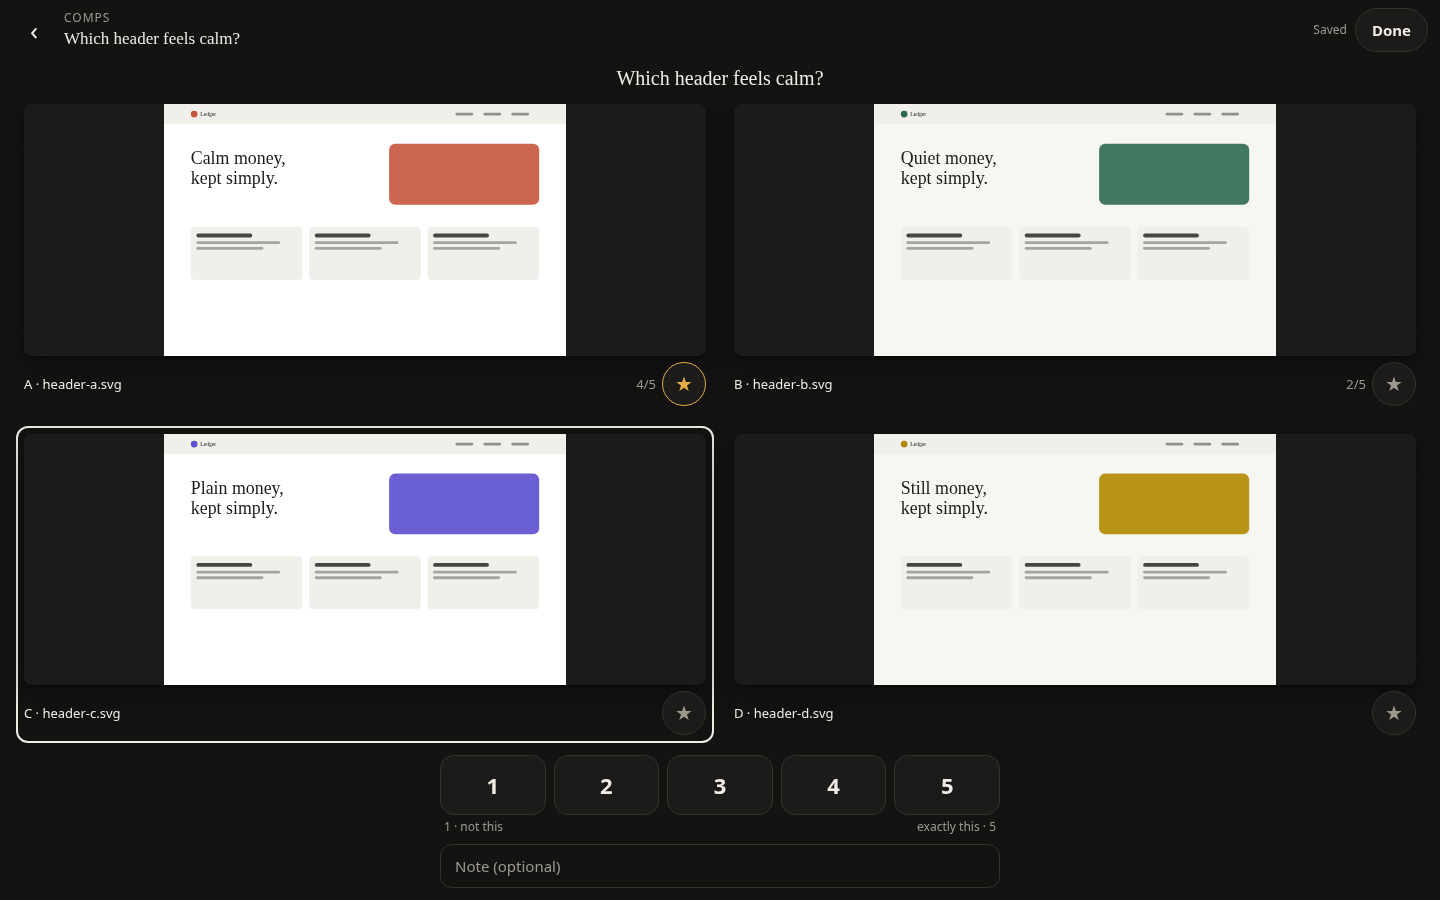
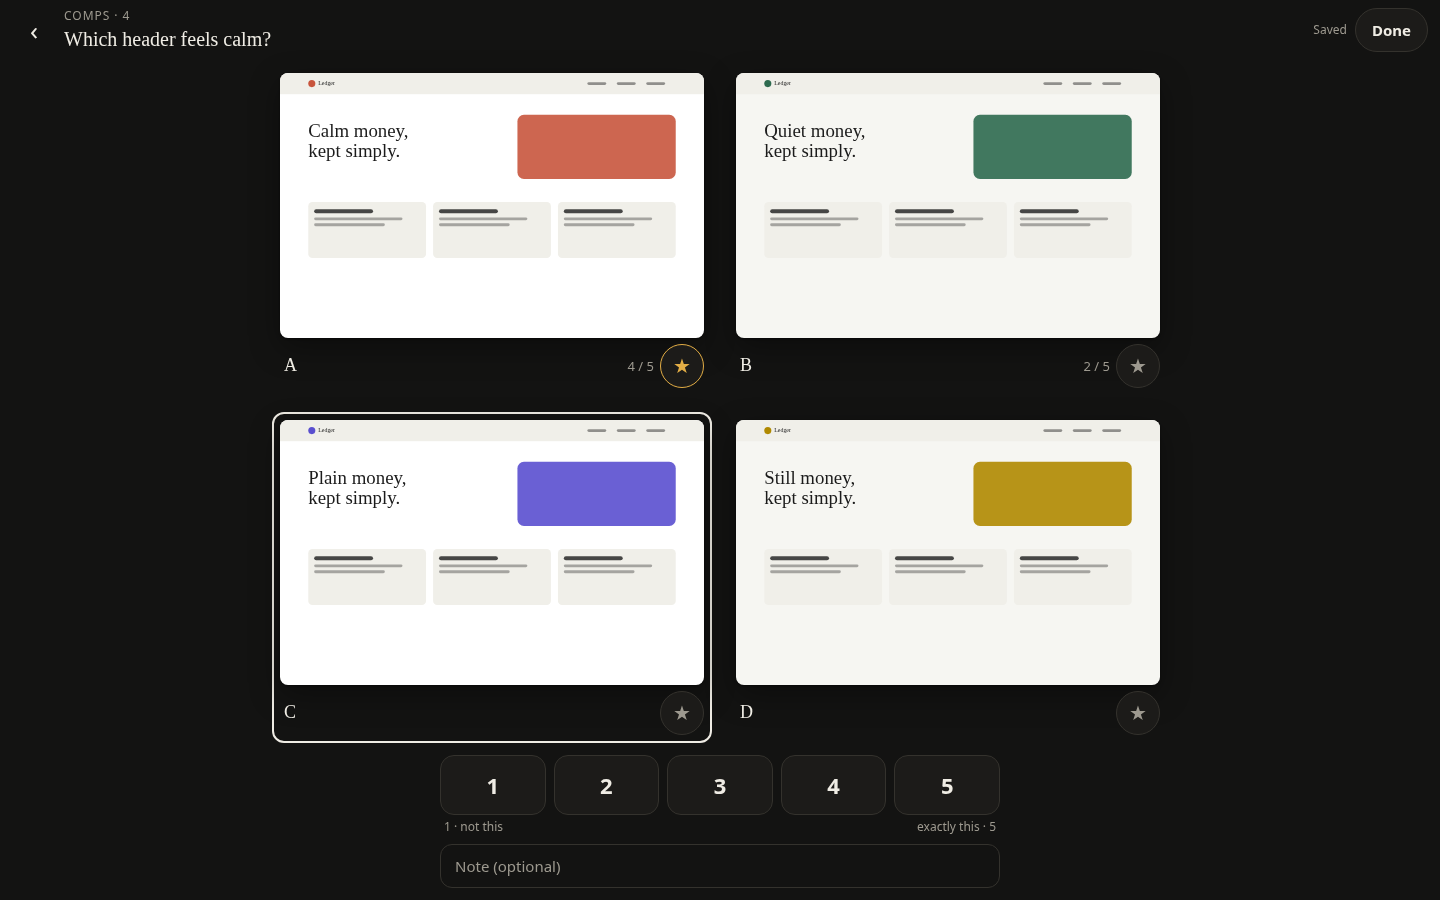
rig taste comps: the question once, frames the shape of their images, letters for labels
The lead's polish from the fc8cf3a shots. The question lives in the header only; each frame is
sized to its image's aspect in whichever column count makes the comps largest; cards read A-D
(file names stay in TASTE.md). A new check with its own control covers the single question and
the frame shape; shots re-taken.

diff --git a/src/taste/page.js b/src/taste/page.js
@@ -56,14 +56,14 @@ footer{padding:4px 16px max(12px,env(safe-area-inset-bottom));display:flex;flex-
 .thumb img{display:block;object-fit:cover;object-position:top;border-radius:6px}
 .thumb span{font-size:12px;color:var(--muted);font-variant-numeric:tabular-nums}
 #finish{height:56px;padding:0 32px;border-radius:28px;border:0;background:var(--ink);color:var(--bg);font-size:17px;font-weight:600}
-.question{font-family:ui-serif,Georgia,serif;font-size:20px;text-align:center;margin:0 0 4px;padding:0 8px}
-.grid{position:absolute;inset:0;display:grid;gap:12px}
+.asking #name{font-size:20px}
+.grid{position:absolute;inset:0;display:grid;gap:16px;justify-content:center;align-content:center}
 .comp{position:relative;min-width:0;min-height:0;display:flex;flex-direction:column;gap:6px;border-radius:12px;padding:6px;border:2px solid transparent;background:transparent}
 .comp.sel{border-color:var(--ink)}
-.comp .pick{flex:1;min-height:0;border:0;padding:0;background:var(--paper);border-radius:8px;box-shadow:var(--shadow);overflow:hidden;display:block;width:100%}
+.comp .pick{flex:none;border:0;padding:0;background:var(--paper);border-radius:8px;box-shadow:var(--shadow);overflow:hidden;display:block;width:100%}
 .comp .pick img{display:block;width:100%;height:100%;object-fit:contain}
 .comp .bar{display:flex;align-items:center;gap:6px;height:44px}
-.comp .label{flex:1;min-width:0;font-size:13px;white-space:nowrap;overflow:hidden;text-overflow:ellipsis}
+.comp .label{flex:1;min-width:0;font-family:ui-serif,Georgia,serif;font-size:18px;padding-left:4px}
 .comp .score{font-size:13px;color:var(--muted);font-variant-numeric:tabular-nums}
 .star{width:44px;height:44px;border-radius:22px;border:1px solid var(--line);background:var(--paper);font-size:20px;line-height:1;color:var(--muted);flex:none}
 .star[aria-pressed=true]{color:var(--star);border-color:var(--star)}
@@ -79,8 +79,8 @@ footer{padding:4px 16px max(12px,env(safe-area-inset-bottom));display:flex;flex-
   main{padding:4px 12px}
   #stage{inset:4px 12px;--gap:12px}
   footer{padding-left:12px;padding-right:12px;gap:6px}
-  .question{font-size:17px}
-  .grid{gap:6px}
+  .asking #name{font-size:17px}
+  .grid{gap:8px}
   .comp{padding:3px}
 }
 /* Hover only where a pointer really hovers: on a phone a sticky :hover reads as a rating already given. */
@@ -190,15 +190,6 @@ function fit(figs){
     var s = f.querySelector('.shot'); s.style.width = Math.floor(w) + 'px'; s.style.height = Math.floor(h) + 'px'
   })
 }
-// A grid for n tiles of aspect ~a inside W x H, picking the column count that makes tiles biggest.
-function bestCols(n, W, H, a, extraH, gap){
-  var best = 1, bestS = 0
-  for (var c = 1; c <= n; c++){
-    var r = Math.ceil(n / c), cw = (W - gap * (c - 1)) / c, ch = (H - gap * (r - 1)) / r - extraH
-    var w = Math.min(cw, ch * a); if (w > bestS){ bestS = w; best = c }
-  }
-  return best
-}
 
 // The token rides on every image URL; v changes when the file does, so a reworked comp is never stale.
 function imgUrl(card, view){ return '/img/' + encodeURIComponent(card.id) + '/' + view + '?t=' + encodeURIComponent(S.token) + '&v=' + (card.v[view] || '') }
@@ -229,36 +220,49 @@ function renderRef(i){
   preload(refs[i + 1])
 }
 
+// The comps view: the question once, in the header, and the comps as large as the stage allows.
+// Each frame takes its image's own shape, and the column count is whichever makes them biggest.
 function renderComps(){
-  $('progress').textContent = 'Comps'
+  $('progress').textContent = 'Comps · ' + comps.length
   $('name').textContent = S.question || 'Which one?'; $('name').title = S.question || ''
+  document.body.classList.add('asking')
   stage.innerHTML = ''; stage.style.display = 'block'; stage.style.flexDirection = ''
-  var q = el('p', 'question', S.question || 'Which one?'); q.id = 'question'
-  var wrap = el('div'); wrap.style.cssText = 'position:absolute;left:0;right:0;bottom:0'
   var grid = el('div', 'grid'); grid.id = 'grid'
-  wrap.appendChild(grid); stage.appendChild(q); stage.appendChild(wrap)
+  stage.appendChild(grid)
+  var imgs = []
   comps.forEach(function(c, k){
-    var a = answerOf('comp', c.id)
+    var a = answerOf('comp', c.id), letter = String.fromCharCode(65 + k)
     var card = el('div', 'comp' + (k === sel ? ' sel' : '')); card.dataset.id = c.id
-    var pick = el('button', 'pick'); pick.type = 'button'; pick.setAttribute('aria-label', 'Select ' + c.name)
-    var img = new Image(); img.alt = c.name; img.src = imgUrl(c, c.views[0]); pick.appendChild(img)
+    var pick = el('button', 'pick'); pick.type = 'button'; pick.setAttribute('aria-label', 'Select comp ' + letter)
+    var img = new Image(); img.alt = 'Comp ' + letter; img.src = imgUrl(c, c.views[0]); pick.appendChild(img)
+    img.addEventListener('load', function(){ relayout() })
+    imgs.push(img)
     pick.addEventListener('click', function(){ select(k) })
     var bar = el('div', 'bar')
-    bar.appendChild(el('span', 'label', String.fromCharCode(65 + k) + '  ·  ' + c.name))
-    bar.appendChild(el('span', 'score', a.rating ? a.rating + '/5' : ''))
-    var star = el('button', 'star', '★'); star.type = 'button'; star.setAttribute('aria-label', 'Favourite: ' + c.name)
+    bar.appendChild(el('span', 'label', letter))
+    bar.appendChild(el('span', 'score', a.rating ? a.rating + ' / 5' : ''))
+    var star = el('button', 'star', '★'); star.type = 'button'; star.setAttribute('aria-label', 'Favourite: comp ' + letter)
     star.setAttribute('aria-pressed', S.pick === c.id ? 'true' : 'false')
     star.addEventListener('click', function(){ togglePick(k) })
     bar.appendChild(star)
     card.appendChild(pick); card.appendChild(bar); grid.appendChild(card)
   })
   relayout = function(){
-    var top = q.offsetHeight + 4
-    wrap.style.top = top + 'px'
-    var W = wrap.clientWidth, H = wrap.clientHeight, gap = parseFloat(getComputedStyle(grid).rowGap) || 8
-    var cols = bestCols(comps.length, W, H, 1.4, 56, gap)
-    grid.style.gridTemplateColumns = 'repeat(' + cols + ', minmax(0, 1fr))'
-    grid.style.gridTemplateRows = 'repeat(' + Math.ceil(comps.length / cols) + ', minmax(0, 1fr))'
+    var W = stage.clientWidth, H = stage.clientHeight, gap = parseFloat(getComputedStyle(grid).rowGap) || 8
+    var loaded = imgs.filter(function(i){ return i.naturalWidth && i.naturalHeight })
+    var a = loaded.length ? loaded.reduce(function(s, i){ return s + i.naturalWidth / i.naturalHeight }, 0) / loaded.length : 1.6
+    var cs = getComputedStyle(grid.firstChild)
+    var padW = parseFloat(cs.paddingLeft) * 2 + parseFloat(cs.borderLeftWidth) * 2
+    var padH = padW + 44 + parseFloat(cs.rowGap || 0)
+    var best = 1, bestW = 0, n = comps.length
+    for (var c = 1; c <= n; c++){
+      var r = Math.ceil(n / c)
+      var w = Math.min((W - gap * (c - 1)) / c - padW, ((H - gap * (r - 1)) / r - padH) * a)
+      if (w > bestW){ bestW = w; best = c }
+    }
+    bestW = Math.floor(Math.max(44, bestW))
+    grid.style.gridTemplateColumns = 'repeat(' + best + ', ' + (bestW + padW) + 'px)'
+    Array.prototype.forEach.call(grid.querySelectorAll('.pick'), function(p){ p.style.width = bestW + 'px'; p.style.height = Math.floor(bestW / a) + 'px' })
   }
   relayout()
   showRating(comps[sel] ? answerOf('comp', comps[sel].id).rating : null)
@@ -302,6 +306,7 @@ function updateDone(){
 
 function go(p){
   flushNote()
+  document.body.classList.remove('asking')
   pos = Math.max(0, Math.min(steps.length - 1, p))
   var s = steps[pos]
   $('back').disabled = pos === 0

diff --git a/test/taste.test.js b/test/taste.test.js
@@ -894,8 +894,8 @@ await suite('rig taste', async (s) => {
     assert: async () => {
       const { b, page, input, close } = await compsBoard()
       try {
-        if ((await progress(page)) !== 'Comps') return false
-        const q = await page.eval('document.getElementById("question")?.textContent')
+        if (!(await progress(page)).startsWith('Comps')) return false
+        const q = await page.eval('document.getElementById("name")?.textContent')
         for (const r of [2, 5, 3, 4]) await press(page, input, `.rate[data-rating="${r}"]`, { touch: true })
         await sleep(300)
         await press(page, input, '.comp:nth-child(2) .star', { touch: true })
@@ -917,6 +917,31 @@ await suite('rig taste', async (s) => {
       }
     },
     breaks: swap(handlers, 'pick', () => {}),
+    timeout: 60_000,
+  })
+
+  await s.check('comps: the question shows once, and each frame takes the image’s shape', {
+    assert: async () => {
+      const { page, close } = await compsBoard()
+      try {
+        const times = await page.eval('document.body.innerText.split("Which header feels calm?").length - 1')
+        // The fixtures are 1440×900: a frame within a pixel of 1.6 wide per tall, no letterbox.
+        const shapes = await page.eval('[...document.querySelectorAll(".comp .pick")].map((p) => p.clientWidth / p.clientHeight)')
+        const ok = times === 1 && shapes.length === 4 && shapes.every((r) => Math.abs(r - 1.6) < 0.03)
+        if (!ok) console.log(`        question shown ${times}×, frames ${shapes.map((r) => r.toFixed(2)).join(', ')}`)
+        return ok
+      } finally {
+        await close()
+      }
+    },
+    // The control: the first comps view, with the question again above the grid and portrait frames.
+    breaks: pageBreak(`(() => {
+      new MutationObserver(() => {
+        const g = document.getElementById('grid')
+        if (g && !document.getElementById('again')) g.insertAdjacentHTML('beforebegin', '<p id="again">Which header feels calm?</p>')
+      }).observe(document.body, { childList: true, subtree: true })
+      document.head.insertAdjacentHTML('beforeend', '<style>.comp .pick{height:300px!important}</style>')
+    })()`),
     timeout: 60_000,
   })
 
